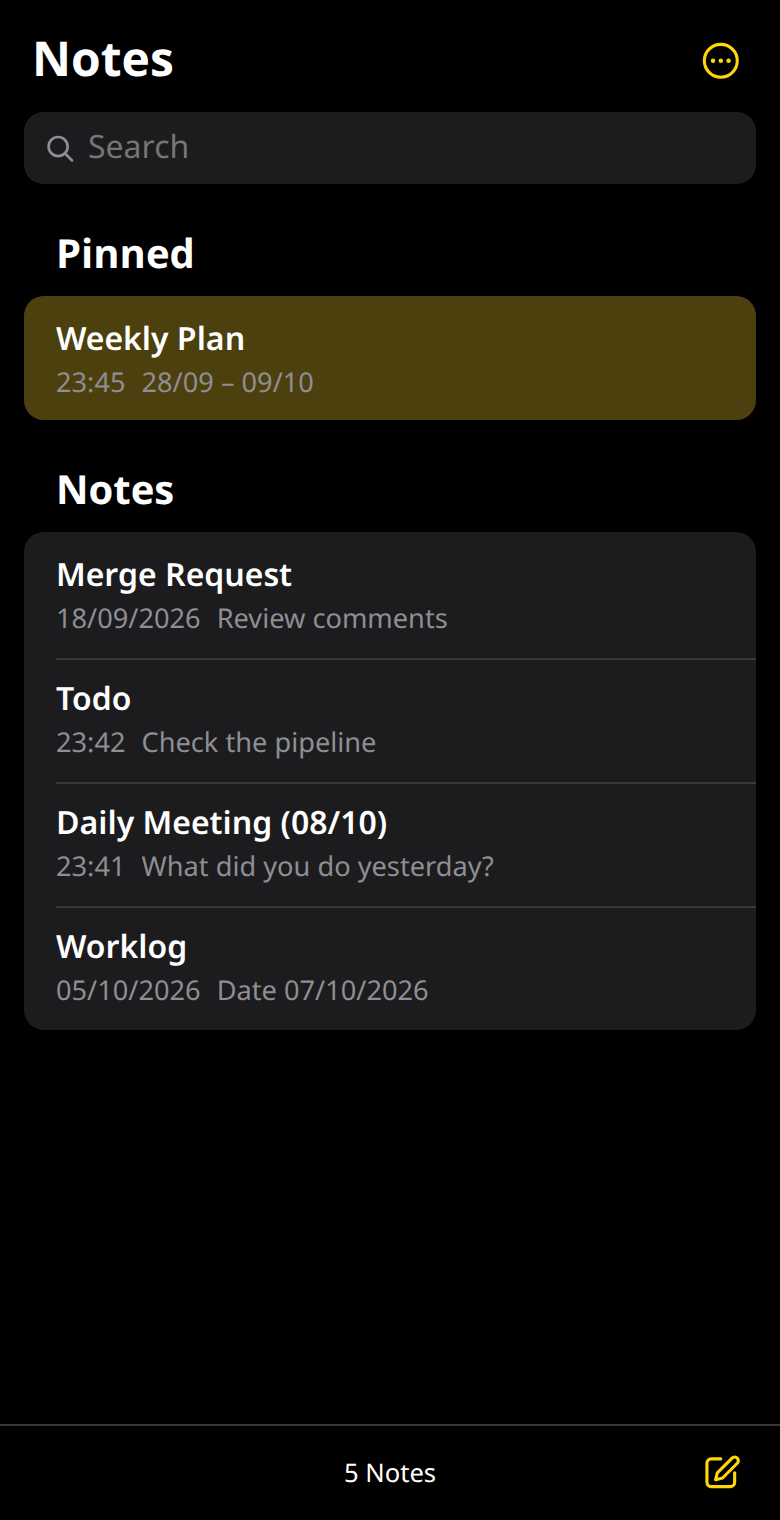
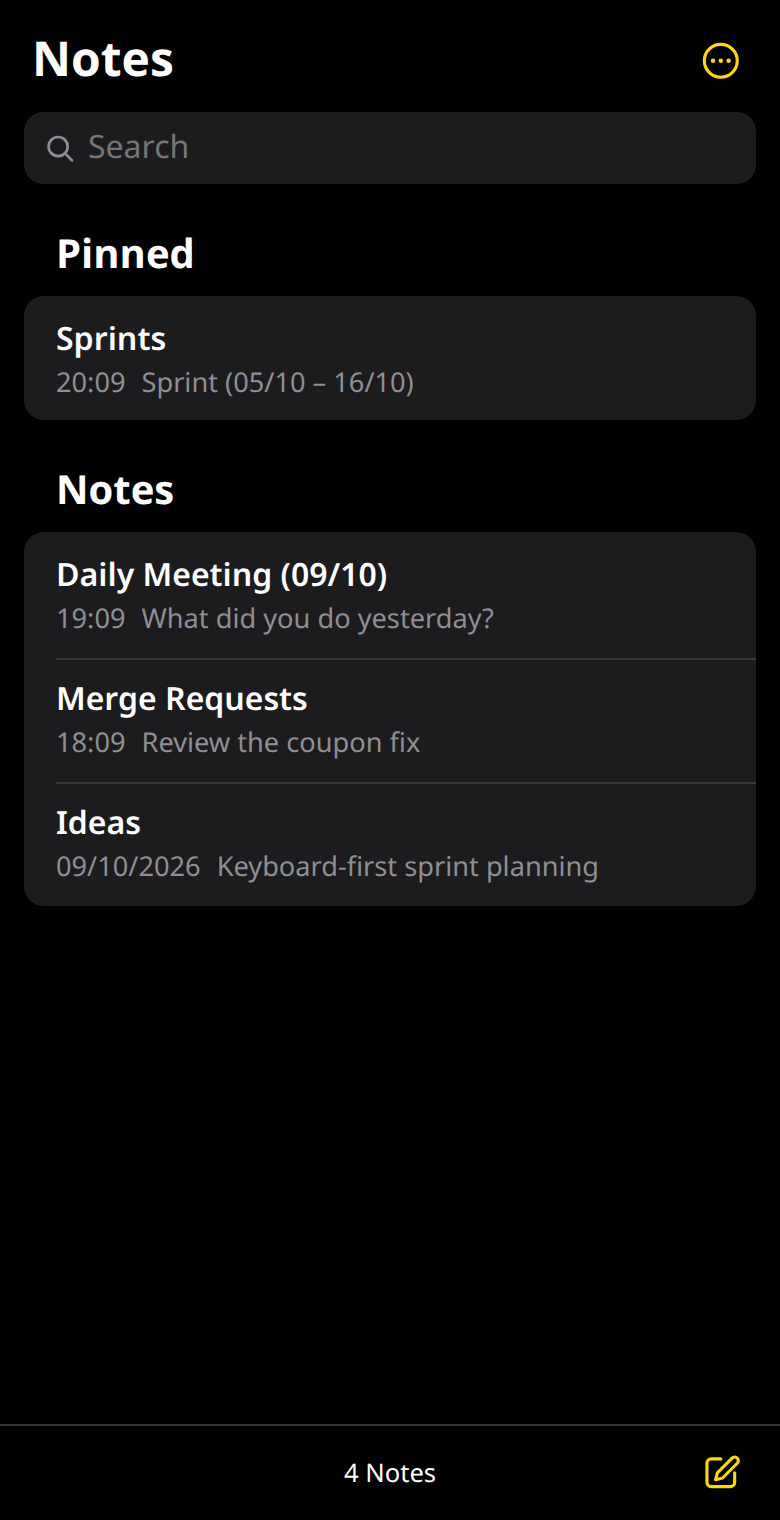
docs: describe the Sprints note and editable shortcuts
Replace the Task tracking section with Sprints, explain how old
trackers merge, add how to change and reset shortcuts, and retake the
screenshots with sample data.

diff --git a/README.md b/README.md
@@ -4,20 +4,20 @@
 [![License: MIT](https://img.shields.io/github/license/ttncode/notelet)](LICENSE)
 ![Chrome Manifest V3](https://img.shields.io/badge/Chrome-Manifest%20V3-yellow)
 
-Lightweight notes for Chrome in the style of the Notes app on iPhone, with task tracking for sprints. Notes stay in your browser — no account, no sync, nothing sent anywhere.
+Lightweight notes for Chrome in the style of the Notes app on iPhone, with sprint tracking. Notes stay in your browser — no account, no sync, nothing sent anywhere.
 
 Notelet is an independent project and is not affiliated with or endorsed by Apple.
 
 <picture>
   <source media="(prefers-color-scheme: dark)" srcset="assets/screenshots/notelet-dark.png">
-  <img src="assets/screenshots/notelet-light.png" width="900" alt="Notelet with a pinned task tracker open: a donut of points by status shows 13 of 18 points done above the Last Sprint and Current Sprint groups of tasks, each with a tick, points and a status; the notes list on the left shows Pinned and Notes cards">
+  <img src="assets/screenshots/notelet-light.png" width="900" alt="Notelet with the pinned Sprints note open on the current sprint: a donut of points by status shows done points against the goal above the sprint's tasks, each with points and a status, then the month card; the notes list on the left shows Pinned and Notes cards">
 </picture>
 
 In a narrow window Notelet switches to the iPhone layout: the list first, then the note with a back button.
 
 <p>
   <img src="assets/screenshots/notelet-narrow-list.png" width="260" alt="Narrow layout in dark mode showing the notes list as Pinned and Notes cards with 24-hour times, the note count and the compose button at the bottom">
-  <img src="assets/screenshots/notelet-narrow-note.png" width="260" alt="Narrow layout in dark mode showing the task tracker with its status donut and the Last Sprint group, each task with its status under the title">
+  <img src="assets/screenshots/notelet-narrow-note.png" width="260" alt="Narrow layout in dark mode showing the current sprint with its status donut and its tasks, each with points and a status">
 </p>
 
 ## Install
@@ -45,22 +45,26 @@ Your notes stay: Notelet's extension ID is fixed, so Chrome keeps the same stora
 
 Notes live only in this browser profile. **Removing the extension deletes all of them**, and Chrome offers no way to keep them. Export regularly; **Import** merges a backup back in (a note with the same ID is replaced).
 
-## Task tracking
+## Sprints
 
-Click the compose button and choose **New Task Tracking** (or press `Alt+S`). A tracker starts the working day after your last one ends, lasts ten working days (Monday to Friday), keeps the last target and copies the last tracker's group names.
+Press `Alt+S` (or the compose button → **Sprints**) to open the Sprints note: one note that holds every sprint and a Backlog. It opens on the current sprint.
 
-- The donut shows the points of the counted groups by status, with done points against the target in the middle and what is still missing below.
-- Tasks live in groups, **Last Sprint** and **Current Sprint** to start with. Each row has a tick, the task, its points and a status dropdown. **+ Add Task** adds one; **+ Add Group** adds a group, and clicking a group's name renames it. The chevron folds a group away.
-- Tick a task when its development is done; only ticked tasks with points count as completed. Status is for tracking only.
-- In a task, Enter adds the next task and Backspace on an empty one removes it. Drag the ⋮⋮ grip, or press Alt+Up / Alt+Down, to move a task, also into another group.
-- ⚙ changes the dates and target, **Count points from** (tick any of this tracker's groups; only Current Sprint by default) and the status names, colours and order shared by all trackers.
-- Anything else goes in **Notes** under the groups, as ordinary note text.
+- The donut shows the sprint's points by status, with done points against the goal in the middle and what is left to do below.
+- Each task row has its title, points and status. **+ Add Task** opens a line for a new task; Enter adds it and starts the next, Esc stops. Click a task to open it: change its title, points, status or sprint, write a note with the usual text styles and checklists, or delete it.
+- Drag a task to reorder it, or drop it on another sprint or the Backlog under **Other Lists**. Alt+Up / Alt+Down moves the focused task.
+- Done points come from statuses: by default only **Done** counts. ⚙ chooses which statuses count for sprints and for months, edits the sprint's name, dates and goal and the status list shared by all sprints, and deletes a sprint (its tasks go to the Backlog).
+- The month card adds up the sprints that end in that month. Its goal is their goals added up unless you type your own; clear it to go back to the sum.
+- **All Sprints** lists every sprint by month with each month's progress. **+ New Sprint** starts one the working day after the latest sprint ends, ten working days long, with the same goal.
+- When a sprint has ended with open tasks, one button moves them to the next sprint or the Backlog.
+- Anything else goes in **Notes** under the sprint, as ordinary note text.
 
-Sprint notes from earlier versions, including ones with a `Target: 18` line, are converted automatically: their Last Sprint and Current Sprint lists become groups and the rest stays as notes.
+Task tracking notes from earlier versions are merged into the Sprints note automatically: each becomes a sprint, ticked tasks count as Done, Last Sprint tasks not already on the board go to the Backlog, and any text of their own stays as a normal note under the old title. Export a backup before updating.
 
 ## Keyboard shortcuts
 
 Press `Ctrl+/` (or choose **⋯ → Keyboard Shortcuts**) for the full list. Every button has a shortcut, shown in its tooltip; the notes list, menus and dialogs also work with Tab, the arrow keys, Enter and Esc. Text styles follow Notes for Mac with Ctrl in place of Cmd; where Chrome reserves a shortcut (Ctrl+N, Ctrl+Shift+T) Notelet uses Alt instead.
+
+To change a shortcut, click its key in that list and press the new one (Esc cancels, Backspace removes it). Keys Chrome or Windows keep are refused, and a key another shortcut uses asks before taking it over. ↺ resets one shortcut; **Reset All to Default** resets them all.
 
 ## Development
 
